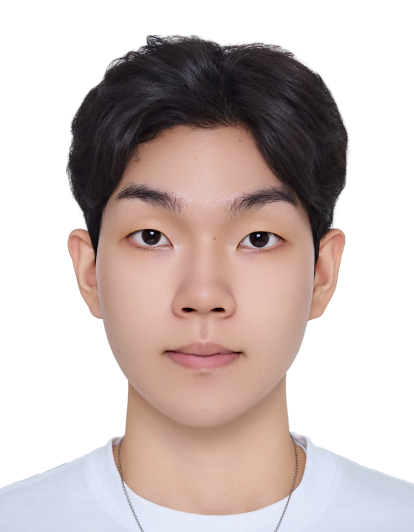
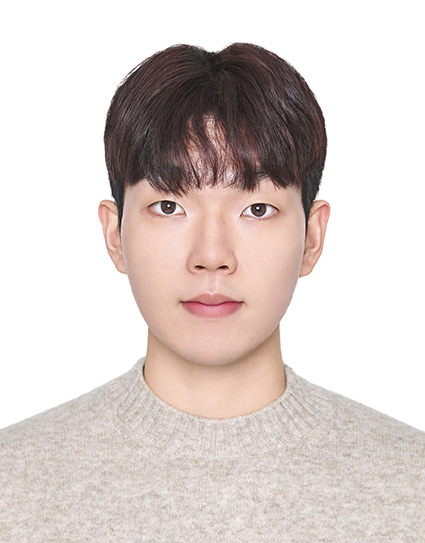
구성원: 이정환 학석사연계과정으로 이동(변문수 오른쪽), 변문수 사진 교체

diff --git a/_members/z-jeonghwan-lee.md b/_members/z-jeonghwan-lee.md
@@ -1,7 +1,7 @@
 ---
 name_ko: "이정환"
 name_en: "Jeong-hwan Lee"
-role: undergrad_researcher
+role: undergrad
 photo: "/assets/images/members/hong_gildong.png"
 email: ""
 joined: 2026
